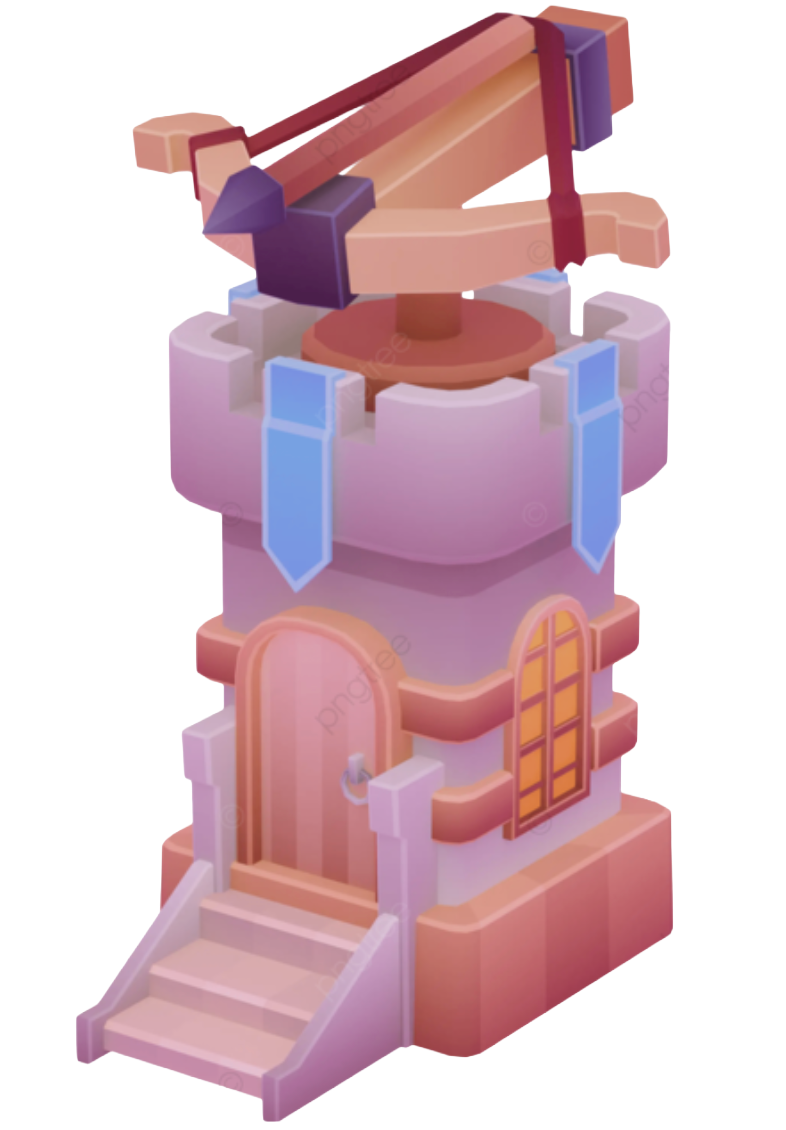
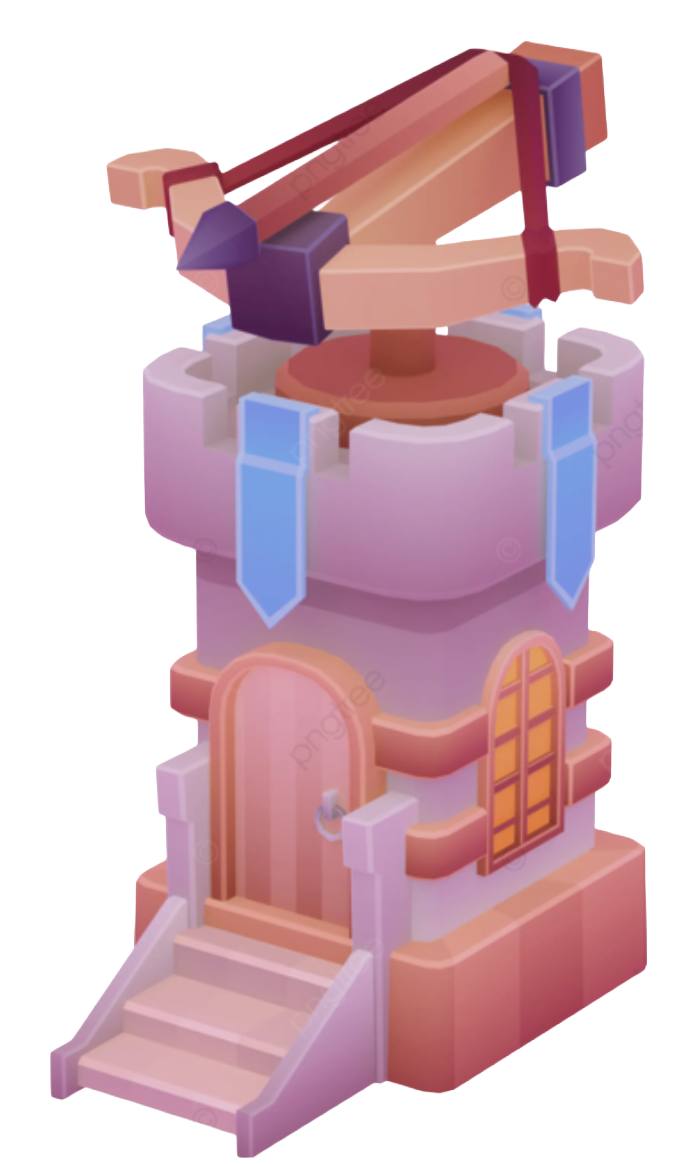
Ce path fix (#10)
* FINISHED EVERYTHING

* FINISHED EVERYTHING

diff --git a/src/main/java/Square.java b/src/main/java/Square.java
@@ -15,27 +15,30 @@ public class Square {
     private boolean isEnd;
     private static Image basicTower;
     private static Image sniperTower;
+    private static Image crossbowTower;
     public static final int BASIC_TOWER_RANGE = 150;
     public static final int SNIPER_TOWER_RANGE = 300;
     public static final int CROSSBOW_TOWER_RANGE = 200;
-    private static Image crossbowTower;
+
+
+    private static Image loadImage(String filename) {
+        String fullPath = "src/main/resources/" + filename;
+        java.io.File f = new java.io.File(fullPath);
+        System.out.println("Trying to load: " + f.getAbsolutePath());
+        System.out.println("File exists: " + f.exists());
+        if (f.exists()) {
+            Image img = new ImageIcon(f.getAbsolutePath()).getImage();
+            System.out.println("Loaded successfully: " + filename);
+            return img;
+        }
+        System.err.println("FAILED to load: " + fullPath);
+        return null;
+    }
 
     static {
-        try {
-            basicTower = new ImageIcon(Square.class.getResource("/tower-defense.png")).getImage();
-        } catch (Exception e) {
-            System.err.println("Failed to load basic tower image: " + e.getMessage());
-        }
-        try {
-            sniperTower = new ImageIcon(Square.class.getResource("/sniper_Tower.png")).getImage();
-        } catch (Exception e) {
-            System.err.println("Failed to load sniper tower image: " + e.getMessage());
-        }
-        try {
-            crossbowTower = new ImageIcon(Square.class.getResource("/crossbowTower.png")).getImage();
-        } catch (Exception e) {
-            System.err.println("Failed to load crossbow tower image: " + e.getMessage());
-        }
+        basicTower    = loadImage("tower-defense.png");
+        sniperTower   = loadImage("sniper_Tower.png");
+        crossbowTower = loadImage("crossbowTower.png");
     }
 
     public Square() {
@@ -78,22 +81,30 @@ public class Square {
         } else if (image == Game.SNIPER) {
             if (sniperTower != null) {
                 g.drawImage(sniperTower, x_cord, y_cord, SQUARE_WIDTH, SQUARE_HEIGHT, null);
-            } else if (image == Game.CROSSBOW) {
-                if (crossbowTower != null) {
-                    g.drawImage(crossbowTower, x_cord, y_cord, SQUARE_WIDTH, SQUARE_HEIGHT, null);
-                } else {
-                    g.setColor(new Color(180, 100, 20));
-                    g.fillRect(x_cord, y_cord, SQUARE_WIDTH, SQUARE_HEIGHT);
-                }
             } else {
                 g.setColor(new Color(255, 100, 100));
+                g.fillRect(x_cord, y_cord, SQUARE_WIDTH, SQUARE_HEIGHT);
+            }
+        } else if (image == Game.CROSSBOW) {
+            if (crossbowTower != null) {
+                // Preserve aspect ratio — fit within the cell
+                int imgW = crossbowTower.getWidth(null);
+                int imgH = crossbowTower.getHeight(null);
+                double scale = Math.min((double) SQUARE_WIDTH / imgW, (double) SQUARE_HEIGHT / imgH);
+                int drawW = (int)(imgW * scale);
+                int drawH = (int)(imgH * scale);
+                // Center within the cell
+                int drawX = x_cord + (SQUARE_WIDTH  - drawW) / 2;
+                int drawY = y_cord + (SQUARE_HEIGHT - drawH) / 2;
+                g.drawImage(crossbowTower, drawX, drawY, drawW, drawH, null);
+            } else {
+                g.setColor(new Color(180, 100, 20));
                 g.fillRect(x_cord, y_cord, SQUARE_WIDTH, SQUARE_HEIGHT);
             }
         }
         g.setColor(Color.BLACK);
         g.drawRect(x_cord, y_cord, SQUARE_WIDTH, SQUARE_HEIGHT);
     }
-
     public void drawRange(Graphics g, int mouseX, int mouseY) {
         if (image != Game.BASIC_TOWER && image != Game.SNIPER && image != Game.CROSSBOW) return;
 
@@ -159,5 +170,6 @@ public class Square {
     public void setY_cord(int y_cord) {
         this.y_cord = y_cord;
     }
+
 }
 

diff --git a/src/main/java/GameViewer.java b/src/main/java/GameViewer.java
@@ -10,7 +10,7 @@ public class GameViewer extends JFrame {
     private static int WINDOW_WIDTH  = 1920;
     private static int WINDOW_HEIGHT = 1080;
     private int health = 100;
-    private int money  = 500;
+    private int money  = 750;
     private JLabel healthLabel;
     private JLabel moneyLabel;
     private int mouseX = -1, mouseY = -1;
@@ -292,7 +292,7 @@ public class GameViewer extends JFrame {
         JButton nextWaveBtn = new JButton(btnText);
         nextWaveBtn.setFont(new Font("Arial", Font.BOLD, 18));
         nextWaveBtn.setBackground(btnColor);
-        nextWaveBtn.setForeground(Color.WHITE);
+        nextWaveBtn.setForeground(Color.BLACK);
         nextWaveBtn.setAlignmentX(Component.CENTER_ALIGNMENT);
         nextWaveBtn.setMaximumSize(new Dimension(260, 50));
         nextWaveBtn.setCursor(new Cursor(Cursor.HAND_CURSOR));